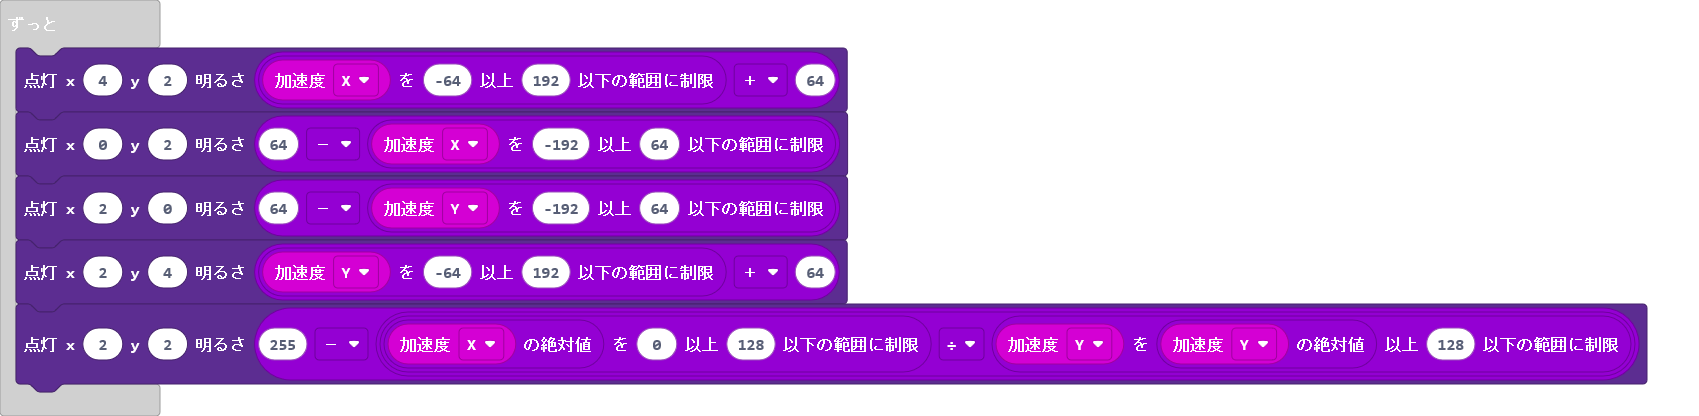
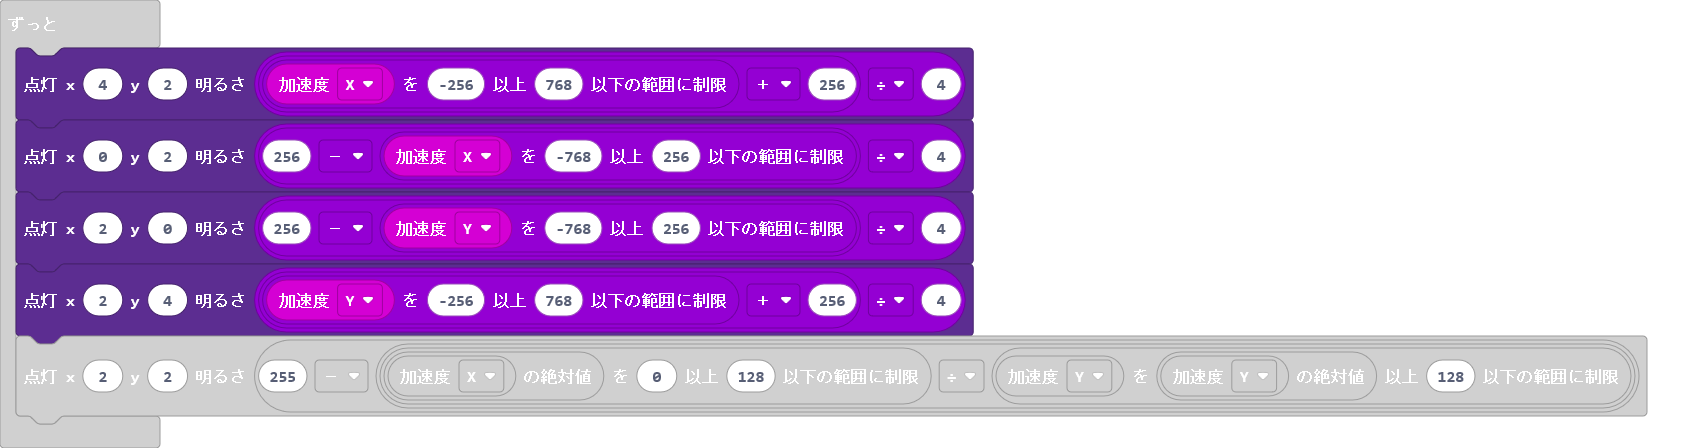
更新 main.blocks, main.ts

diff --git a/main.ts b/main.ts
@@ -1,7 +1,7 @@
 basic.forever(function () {
-    led.plotBrightness(4, 2, Math.constrain(input.acceleration(Dimension.X), -64, 192) + 64)
-    led.plotBrightness(0, 2, 64 - Math.constrain(input.acceleration(Dimension.X), -192, 64))
-    led.plotBrightness(2, 0, 64 - Math.constrain(input.acceleration(Dimension.Y), -192, 64))
-    led.plotBrightness(2, 4, Math.constrain(input.acceleration(Dimension.Y), -64, 192) + 64)
+    led.plotBrightness(4, 2, (Math.constrain(input.acceleration(Dimension.X), -256, 768) + 256) / 4)
+    led.plotBrightness(0, 2, (256 - Math.constrain(input.acceleration(Dimension.X), -768, 256)) / 4)
+    led.plotBrightness(2, 0, (256 - Math.constrain(input.acceleration(Dimension.Y), -768, 256)) / 4)
+    led.plotBrightness(2, 4, (Math.constrain(input.acceleration(Dimension.Y), -256, 768) + 256) / 4)
     led.plotBrightness(2, 2, 255 - Math.constrain(Math.abs(input.acceleration(Dimension.X)), 0, 128) / Math.constrain(input.acceleration(Dimension.Y), Math.abs(input.acceleration(Dimension.Y)), 128))
 })
